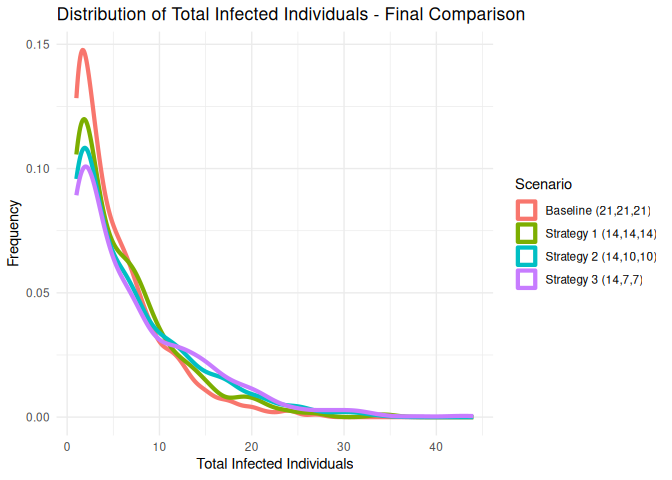
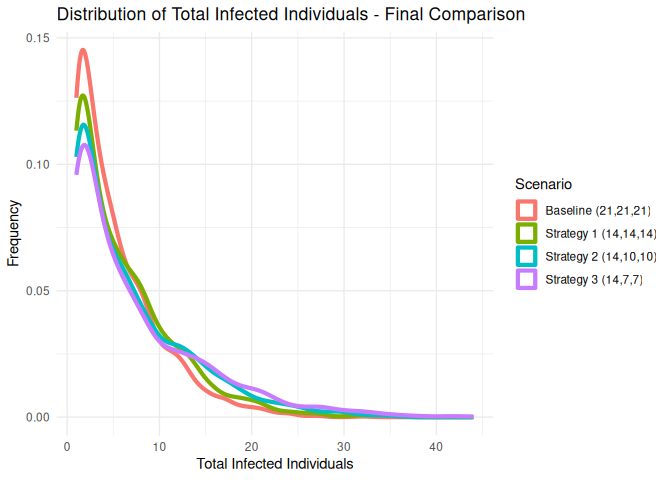
Replace means/medians with probability thresholds for outbreak risk assessment (#2)
* Initial plan

* Refactor tabulator to use probabilities instead of means/medians

* Complete refactoring to use probabilities instead of means/medians

* Update README.qmd

* Make tabulator function flexible with sizes parameter and remove TBD note

* Update simulator.R

* Update simulator.R

* Add validation for total_infected column in tabulator function

* Filling the numbers

---------

Changed region(s): [[0.0312, 0.1875, 0.625, 0.875], [0.0312, 0.0625, 0.0938, 0.125], [0.0312, 0.5938, 0.0938, 0.625]]

diff --git a/README.md b/README.md
@@ -92,7 +92,7 @@ library(ggplot2)
 source("simulator.R")
 
 # Simulation parameters
-n_sims    <- 1000
+n_sims    <- 2000
 n_agents  <- 600
 n_classes <- 20
 n_agents_per_class <- n_agents / n_classes
@@ -134,6 +134,21 @@ We will test the model using the following scenarios:
 - 50%, 80%, and 95% vaccination coverage.
 - Quarantine days set to 0, 7, 14, and 21 days.
 
+To assess the risk effect between different quarantine strategies, we
+report the probability of observing outbreaks of various sizes rather
+than means and medians. Specifically, we calculate:
+
+- **P(≥10)**: Probability that an outbreak reaches 10 or more infected
+  individuals
+- **P(≥20)**: Probability that an outbreak reaches 20 or more infected
+  individuals
+- **P(≥50)**: Probability that an outbreak reaches 50 or more infected
+  individuals
+
+This approach provides a clearer picture of the distribution’s tail
+behavior and allows for better comparison of risk across different
+strategies.
+
 ## Scenarios
 
 ### Scenario: No vaccination, only one risk level quarantined
@@ -155,14 +170,14 @@ tabulator(
 )
 ```
 
-| Scenario                    | Mean   | Median | 95% CI            |
-|:----------------------------|:-------|:-------|:------------------|
-| No Quarantine               | 518.66 | 600.00 | ( 173.95, 600.00) |
-| Only High Risk Quarantine   | 412.24 | 600.00 | ( 3.98, 600.00)   |
-| Only Medium Risk Quarantine | 506.28 | 600.00 | ( 153.00, 600.00) |
-| Only Low Risk Quarantine    | 330.45 | 568.00 | ( 9.95, 600.00)   |
+| Scenario                    | P(≥10) | P(≥20) | P(≥50) |
+|:----------------------------|:-------|:-------|:-------|
+| No Quarantine               | 0.991  | 0.991  | 0.991  |
+| Only High Risk Quarantine   | 0.928  | 0.919  | 0.910  |
+| Only Medium Risk Quarantine | 0.987  | 0.987  | 0.987  |
+| Only Low Risk Quarantine    | 0.977  | 0.960  | 0.632  |
 
-Outbreak sizes across different quarantine scenarios.
+Probability of outbreak sizes across different quarantine scenarios.
 
 ### Scenario: 50% vaccination, tiered quarantine
 
@@ -192,14 +207,14 @@ tabulator(
 )
 ```
 
-| Scenario              | Mean   | Median | 95% CI          |
-|:----------------------|:-------|:-------|:----------------|
-| Baseline (21,21,21)   | 101.71 | 20.00  | ( 1.00, 303.00) |
-| Strategy 1 (21,14,14) | 100.70 | 20.50  | ( 1.00, 302.00) |
-| Strategy 2 (21,7,7)   | 111.14 | 33.00  | ( 1.00, 303.00) |
-| Strategy 3 (21,0,0)   | 131.32 | 93.00  | ( 1.00, 304.00) |
+| Scenario              | P(≥10) | P(≥20) | P(≥50) |
+|:----------------------|:-------|:-------|:-------|
+| Baseline (21,21,21)   | 0.686  | 0.513  | 0.313  |
+| Strategy 1 (21,14,14) | 0.705  | 0.506  | 0.311  |
+| Strategy 2 (21,7,7)   | 0.746  | 0.633  | 0.425  |
+| Strategy 3 (21,0,0)   | 0.800  | 0.751  | 0.674  |
 
-Outbreak sizes across different quarantine scenarios.
+Probability of outbreak sizes across different quarantine scenarios.
 
 ### Scenario: 80% vaccination, tiered quarantine
 
@@ -223,14 +238,14 @@ tabulator(
 )
 ```
 
-| Scenario              | Mean  | Median | 95% CI          |
-|:----------------------|:------|:-------|:----------------|
-| Baseline (21,21,21)   | 15.08 | 5.00   | ( 1.00, 122.00) |
-| Strategy 1 (21,14,14) | 14.40 | 5.00   | ( 1.00, 122.00) |
-| Strategy 2 (21,7,7)   | 17.24 | 5.00   | ( 1.00, 123.00) |
-| Strategy 3 (21,0,0)   | 14.67 | 6.00   | ( 1.00, 122.00) |
+| Scenario              | P(≥10) | P(≥20) | P(≥50) |
+|:----------------------|:-------|:-------|:-------|
+| Baseline (21,21,21)   | 0.239  | 0.106  | 0.092  |
+| Strategy 1 (21,14,14) | 0.258  | 0.103  | 0.081  |
+| Strategy 2 (21,7,7)   | 0.308  | 0.142  | 0.089  |
+| Strategy 3 (21,0,0)   | 0.385  | 0.228  | 0.054  |
 
-Outbreak sizes across different quarantine scenarios.
+Probability of outbreak sizes across different quarantine scenarios.
 
 ### Scenario: 90% vaccination, tiered quarantine
 
@@ -254,14 +269,14 @@ tabulator(
 )
 ```
 
-| Scenario              | Mean | Median | 95% CI         |
-|:----------------------|:-----|:-------|:---------------|
-| Baseline (21,21,21)   | 4.23 | 2.00   | ( 1.00, 13.00) |
-| Strategy 1 (21,14,14) | 4.11 | 2.00   | ( 1.00, 13.00) |
-| Strategy 2 (21,7,7)   | 3.99 | 2.00   | ( 1.00, 14.00) |
-| Strategy 3 (21,0,0)   | 4.30 | 2.00   | ( 1.00, 19.02) |
+| Scenario              | P(≥10) | P(≥20) | P(≥50) |
+|:----------------------|:-------|:-------|:-------|
+| Baseline (21,21,21)   | 0.051  | 0.032  | 0.032  |
+| Strategy 1 (21,14,14) | 0.059  | 0.026  | 0.026  |
+| Strategy 2 (21,7,7)   | 0.067  | 0.023  | 0.021  |
+| Strategy 3 (21,0,0)   | 0.089  | 0.018  | 0.008  |
 
-Outbreak sizes across different quarantine scenarios.
+Probability of outbreak sizes across different quarantine scenarios.
 
 ### Scenario: Lower quarantine duration (14 days)
 
@@ -288,15 +303,15 @@ tabulator(
 )
 ```
 
-| Scenario              | Mean  | Median | 95% CI          |
-|:----------------------|:------|:-------|:----------------|
-| Baseline (21,21,21)   | 15.08 | 5.00   | ( 1.00, 122.00) |
-| Strategy 1 (14,14,14) | 19.10 | 5.50   | ( 1.00, 123.00) |
-| Strategy 2 (14,10,10) | 18.57 | 6.00   | ( 1.00, 122.00) |
-| Strategy 3 (14,7,7)   | 20.26 | 6.00   | ( 1.00, 123.00) |
-| Strategy 4 (14,0,0)   | 18.36 | 7.00   | ( 1.00, 123.00) |
+| Scenario              | P(≥10) | P(≥20) | P(≥50) |
+|:----------------------|:-------|:-------|:-------|
+| Baseline (21,21,21)   | 0.239  | 0.106  | 0.092  |
+| Strategy 1 (14,14,14) | 0.304  | 0.137  | 0.108  |
+| Strategy 2 (14,10,10) | 0.336  | 0.146  | 0.100  |
+| Strategy 3 (14,7,7)   | 0.360  | 0.177  | 0.108  |
+| Strategy 4 (14,0,0)   | 0.449  | 0.290  | 0.079  |
 
-Outbreak sizes across different quarantine scenarios.
+Probability of outbreak sizes across different quarantine scenarios.
 
 ## Overall comparison
 
@@ -315,20 +330,21 @@ tabulator(
 )
 ```
 
-| Scenario              | Mean  | Median | 95% CI          |
-|:----------------------|:------|:-------|:----------------|
-| Baseline (21,21,21)   | 15.08 | 5.00   | ( 1.00, 122.00) |
-| Strategy 1 (14,14,14) | 19.10 | 5.50   | ( 1.00, 123.00) |
-| Strategy 2 (14,10,10) | 18.57 | 6.00   | ( 1.00, 122.00) |
-| Strategy 3 (14,7,7)   | 20.26 | 6.00   | ( 1.00, 123.00) |
+| Scenario              | P(≥10) | P(≥20) | P(≥50) |
+|:----------------------|:-------|:-------|:-------|
+| Baseline (21,21,21)   | 0.239  | 0.106  | 0.092  |
+| Strategy 1 (14,14,14) | 0.304  | 0.137  | 0.108  |
+| Strategy 2 (14,10,10) | 0.336  | 0.146  | 0.100  |
+| Strategy 3 (14,7,7)   | 0.360  | 0.177  | 0.108  |
 
-Outbreak sizes across different quarantine scenarios.
+Probability of outbreak sizes across different quarantine scenarios.
 
-The table may be somewhat misleading since it is suggesting that
-strategy 2 (which is fewer days of quarantine than strategy 1) is
-performing better. However, looking into the distribution of total
-infected individuals provides a better picture of the differences
-between strategies:
+The probability-based metrics provide a clearer picture of outbreak risk
+across different strategies. By examining the probability of reaching
+specific outbreak thresholds (10, 20, and 50 infected individuals), we
+can better assess the practical implications of each quarantine
+strategy. The distribution of total infected individuals can be further
+explored through density plots:
 
 ``` r
 # We can group the four into a single plot (histogram)
